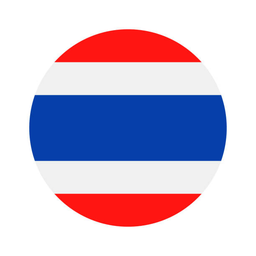
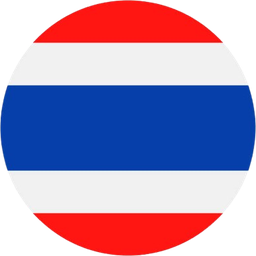
Changes

diff --git a/src/pages/SignIn.tsx b/src/pages/SignIn.tsx
@@ -704,7 +704,7 @@ const SignIn = () => {
           <div className="flex justify-center">
             <div className="relative">
               <button type="button" onClick={() => setShowLanguageMenu(!showLanguageMenu)} className="flex items-center gap-1.5 text-sm font-medium text-muted-foreground hover:text-foreground transition-colors">
-                <img src={currentLang.flag} alt={currentLang.label} className="w-5 h-4 object-cover rounded-sm" />
+                <img src={currentLang.flag} alt={currentLang.label} className="w-5 h-5 rounded-full object-cover" />
                 {currentLang.label}
               </button>
               
